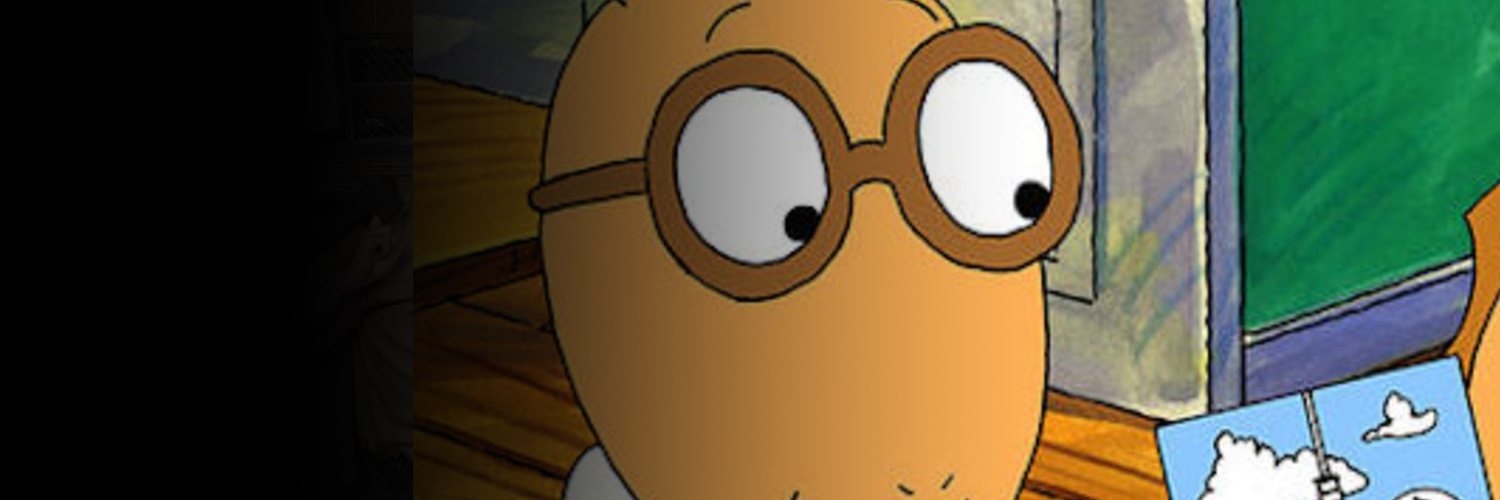
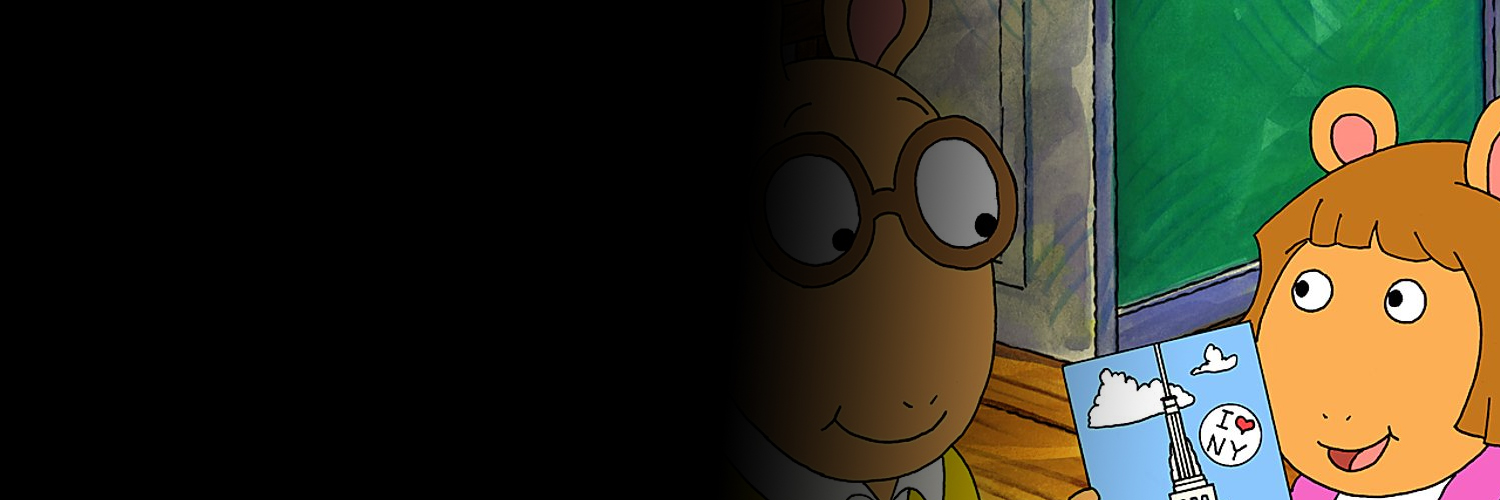
feat: seed now complete

diff --git a/src/seed.js b/src/seed.js
@@ -173,7 +173,8 @@ export function seedDatabase(firebase) {
   firebase.firestore().collection('series').add({
     id: getUUID(),
     title: 'The Confession Killer',
-    description: '',
+    description:
+      'Henry Lee Lucas was an American convicted serial killer whose crimes spanned from 1960 to 1983. He was convicted of murdering eleven people and condemned to death for the murder of Debra Jackson, although his sentence would be commuted to life in prison in 1998.',
     genre: 'crime',
     maturity: '18',
     slug: 'the-confession-killer',
@@ -247,67 +248,237 @@ export function seedDatabase(firebase) {
   /* Films
     ============================================ */
   // Drama
-  for (let index = 0; index < 5; index += 1) {
-    firebase.firestore().collection('films').add({
-      id: getUUID(),
-      title: 'The Prestige',
-      description:
-        'Two friends and fellow magicians become bitter enemies after a sudden tragedy. As they devote themselves to this rivalry, they make sacrifices that bring them fame but with terrible consequences.',
-      genre: 'drama',
-      maturity: '15',
-      slug: 'the-prestige',
-    });
-  }
+  firebase.firestore().collection('films').add({
+    id: getUUID(),
+    title: 'The Prestige',
+    description:
+      'Two friends and fellow magicians become bitter enemies after a sudden tragedy. As they devote themselves to this rivalry, they make sacrifices that bring them fame but with terrible consequences.',
+    genre: 'drama',
+    maturity: '15',
+    slug: 'the-prestige',
+  });
+  firebase.firestore().collection('films').add({
+    id: getUUID(),
+    title: 'Fight Club',
+    description:
+      'Discontented with his capitalistic lifestyle, a white-collared insomniac forms an underground fight club with Tyler, a careless soap salesman. The project soon spirals down into something sinister.',
+    genre: 'drama',
+    maturity: '15',
+    slug: 'fight-club',
+  });
+  firebase.firestore().collection('films').add({
+    id: getUUID(),
+    title: 'Kings Speech',
+    description:
+      'King George VI tries to overcome his stammering problem with the help of speech therapist Lionel Logue and makes himself worthy enough to lead his country through World War II.',
+    genre: 'drama',
+    maturity: '15',
+    slug: 'kings-speech',
+  });
+  firebase.firestore().collection('films').add({
+    id: getUUID(),
+    title: 'The Revenant',
+    description:
+      'Hugh Glass, a legendary frontiersman, is severely injured in a bear attack and is abandoned by his hunting crew. He uses his skills to survive and take revenge on his companion, who betrayed him.',
+    genre: 'drama',
+    maturity: '15',
+    slug: 'the-revenant',
+  });
+  firebase.firestore().collection('films').add({
+    id: getUUID(),
+    title: 'The Social Network',
+    description:
+      'Mark Zuckerberg creates a social networking site, Facebook, with the help of his friend Eduardo Saverin. But soon, a string of lies tears their relationship apart even as Facebook connects people.',
+    genre: 'drama',
+    maturity: '12',
+    slug: 'the-social-network',
+  });
 
   // Suspense
-  for (let index = 0; index < 5; index += 1) {
-    firebase.firestore().collection('films').add({
-      id: getUUID(),
-      title: 'Shutter Island',
-      description:
-        'Teddy Daniels and Chuck Aule, two US marshals, are sent to an asylum on a remote island in order to investigate the disappearance of a patient, where Teddy uncovers a shocking truth about the place.',
-      genre: 'suspense',
-      maturity: '15',
-      slug: 'shutter-island',
-    });
-  }
+  firebase.firestore().collection('films').add({
+    id: getUUID(),
+    title: 'Shutter Island',
+    description:
+      'Teddy Daniels and Chuck Aule, two US marshals, are sent to an asylum on a remote island in order to investigate the disappearance of a patient, where Teddy uncovers a shocking truth about the place.',
+    genre: 'suspense',
+    maturity: '15',
+    slug: 'shutter-island',
+  });
+  firebase.firestore().collection('films').add({
+    id: getUUID(),
+    title: 'Gone Girl',
+    description:
+      'Nick Dunne discovers that the entire media focus has shifted on him when his wife Amy Dunne disappears on the day of their fifth wedding anniversary.',
+    genre: 'suspense',
+    maturity: '15',
+    slug: 'gone-girl',
+  });
+  firebase.firestore().collection('films').add({
+    id: getUUID(),
+    title: 'Prisoners',
+    description:
+      "When the police take time to find Keller Dover's daughter and her friend, he decides to go on a search himself. His desperation leads him closer to finding the truth and also jeopardises his own life.",
+    genre: 'suspense',
+    maturity: '15',
+    slug: 'prisoners',
+  });
+  firebase.firestore().collection('films').add({
+    id: getUUID(),
+    title: 'Seven',
+    description:
+      'A serial killer begins murdering people according to the seven deadly sins. Two detectives, one new to the city and the other about to retire, are tasked with apprehending the criminal.',
+    genre: 'suspense',
+    maturity: '15',
+    slug: 'seven',
+  });
+  firebase.firestore().collection('films').add({
+    id: getUUID(),
+    title: 'Zodiac',
+    description:
+      'Robert Graysmith, a cartoonist by profession, finds himself obsessively thinking about the Zodiac killer. He uses his puzzle-solving abilities to get closer to revealing the identity of the killer.',
+    genre: 'suspense',
+    maturity: '15',
+    slug: 'zodiac',
+  });
 
   // Children
-  for (let index = 0; index < 5; index += 1) {
-    firebase.firestore().collection('films').add({
-      id: getUUID(),
-      title: 'Hotel Transylvania',
-      description:
-        'Dracula, who owns a high-end resort for monsters, attempts to keep his daughter from falling in love with Jonathan, a human.',
-      genre: 'children',
-      maturity: '0',
-      slug: 'hotel-transylvania',
-    });
-  }
+  firebase.firestore().collection('films').add({
+    id: getUUID(),
+    title: 'Hotel Transylvania',
+    description:
+      'Dracula, who owns a high-end resort for monsters, attempts to keep his daughter from falling in love with Jonathan, a human.',
+    genre: 'children',
+    maturity: '0',
+    slug: 'hotel-transylvania',
+  });
+  firebase.firestore().collection('films').add({
+    id: getUUID(),
+    title: 'Despicable Me',
+    description:
+      'Gru, a criminal mastermind, adopts three orphans as pawns to carry out the biggest heist in history. His life takes an unexpected turn when the little girls see him as their potential father.',
+    genre: 'children',
+    maturity: '0',
+    slug: 'despicable-me',
+  });
+  firebase.firestore().collection('films').add({
+    id: getUUID(),
+    title: 'Frozen',
+    description:
+      'Anna sets out on a journey with an iceman, Kristoff, and his reindeer, Sven, in order to find her sister, Elsa, who has the power to convert any object or person into ice.',
+    genre: 'children',
+    maturity: '0',
+    slug: 'frozen',
+  });
+  firebase.firestore().collection('films').add({
+    id: getUUID(),
+    title: 'Spirited Away',
+    description:
+      'In this animated feature by noted Japanese director Hayao Miyazaki, 10-year-old Chihiro (Rumi Hiiragi) and her parents (Takashi Naitô, Yasuko Sawaguchi) stumble upon a seemingly abandoned amusement park.',
+    genre: 'children',
+    maturity: '0',
+    slug: 'spirited-away',
+  });
+  firebase.firestore().collection('films').add({
+    id: getUUID(),
+    title: 'Up',
+    description:
+      "Carl, an old widower, goes off on an adventure in his flying house in search of Paradise Falls, his wife's dream destination.",
+    genre: 'children',
+    maturity: '0',
+    slug: 'up',
+  });
 
   // Thriller
-  for (let index = 0; index < 5; index += 1) {
-    firebase.firestore().collection('films').add({
-      id: getUUID(),
-      title: 'Joker',
-      description:
-        'Forever alone in a crowd, failed comedian Arthur Fleck seeks connection as he walks the streets of Gotham City.',
-      genre: 'thriller',
-      maturity: '15',
-      slug: 'joker',
-    });
-  }
+  firebase.firestore().collection('films').add({
+    id: getUUID(),
+    title: 'Joker',
+    description:
+      'Forever alone in a crowd, failed comedian Arthur Fleck seeks connection as he walks the streets of Gotham City.',
+    genre: 'thriller',
+    maturity: '15',
+    slug: 'joker',
+  });
+  firebase.firestore().collection('films').add({
+    id: getUUID(),
+    title: 'A Quiet Place',
+    description:
+      'The Abbott family must now face the terrors of the outside world as they fight for survival in silence. Forced to venture into the unknown, they realize that the creatures that hunt by sound are not the only threats that lurk beyond the sand path.',
+    genre: 'thriller',
+    maturity: '15',
+    slug: 'a-quiet-place',
+  });
+  firebase.firestore().collection('films').add({
+    id: getUUID(),
+    title: 'Black Swan',
+    description:
+      'Nina, a ballerina, gets the chance to play the White Swan, Princess Odette. But she finds herself slipping into madness when Thomas, the artistic director, decides that Lily might fit the role better.',
+    genre: 'thriller',
+    maturity: '15',
+    slug: 'black-swan',
+  });
+  firebase.firestore().collection('films').add({
+    id: getUUID(),
+    title: 'Nightcrawler',
+    description:
+      'Louis Bloom, a petty thief, realises that he can make money by capturing photographs of criminal activities and starts resorting to extreme tactics to get them.',
+    genre: 'thriller',
+    maturity: '15',
+    slug: 'nightcrawler',
+  });
+  firebase.firestore().collection('films').add({
+    id: getUUID(),
+    title: 'The Silence of The Lambs',
+    description:
+      'Clarice Starling, an FBI agent, seeks help from Hannibal Lecter, a psychopathic serial killer and former psychiatrist, in order to apprehend another serial killer who has been claiming female victims.',
+    genre: 'thriller',
+    maturity: '15',
+    slug: 'the-silence-of-the-lambs',
+  });
 
   // Romance
-  for (let index = 0; index < 5; index += 1) {
-    firebase.firestore().collection('films').add({
-      id: getUUID(),
-      title: 'A Star Is Born',
-      description:
-        'After falling in love with struggling artist Ally, Jackson, a musician, coaxes her to follow her dreams, while he battles with alcoholism and his personal demons.',
-      genre: 'romance',
-      maturity: '15',
-      slug: 'a-star-is-born',
-    });
-  }
+  firebase.firestore().collection('films').add({
+    id: getUUID(),
+    title: 'A Star Is Born',
+    description:
+      'After falling in love with struggling artist Ally, Jackson, a musician, coaxes her to follow her dreams, while he battles with alcoholism and his personal demons.',
+    genre: 'romance',
+    maturity: '15',
+    slug: 'a-star-is-born',
+  });
+  firebase.firestore().collection('films').add({
+    id: getUUID(),
+    title: 'Blue Valentine',
+    description:
+      'Dean and Cynthia are married with a daughter and their marriage is about to fall apart. Both come from dysfunctional families and struggle to make sense of their relationship.',
+    genre: 'romance',
+    maturity: '15',
+    slug: 'blue-valentine',
+  });
+  firebase.firestore().collection('films').add({
+    id: getUUID(),
+    title: 'La La Land',
+    description:
+      'Sebastian (Ryan Gosling) and Mia (Emma Stone) are drawn together by their common desire to do what they love. But as success mounts they are faced with decisions that begin...',
+    genre: 'romance',
+    maturity: '15',
+    slug: 'la-la-land',
+  });
+  firebase.firestore().collection('films').add({
+    id: getUUID(),
+    title: 'The Notebook',
+    description:
+      "Duke reads the story of Allie and Noah, two lovers who were separated by fate, to Ms Hamilton, an old woman who suffers from Alzheimer's, on a daily basis out of his notebook.",
+    genre: 'romance',
+    maturity: '15',
+    slug: 'the-notebook',
+  });
+  firebase.firestore().collection('films').add({
+    id: getUUID(),
+    title: 'Titanic',
+    description:
+      'Seventeen-year-old Rose hails from an aristocratic family and is set to be married. When she boards the Titanic, she meets Jack Dawson, an artist, and falls in love with him.',
+    genre: 'romance',
+    maturity: '15',
+    slug: 'titanic',
+  });
 }

diff --git a/src/components/card/styles/Card.js b/src/components/card/styles/Card.js
@@ -64,6 +64,7 @@ export const Image = styled.img`
   border: 0;
   width: 100%;
   max-width: 305px;
+  cursor: pointer;
   height: auto;
   padding: 0;
   margin: 0;
@@ -100,9 +101,12 @@ export const Feature = styled.div`
   display: flex;
   flex-direction: row;
   background: url(${({ src }) => src});
-  background-size: cover;
+  background-size: contain;
   position: relative;
   height: 500px;
+  background-position-x: right;
+  background-repeat: no-repeat;
+  background-color: black;
 `;
 
 export const FeatureTitle = styled(Title)`
